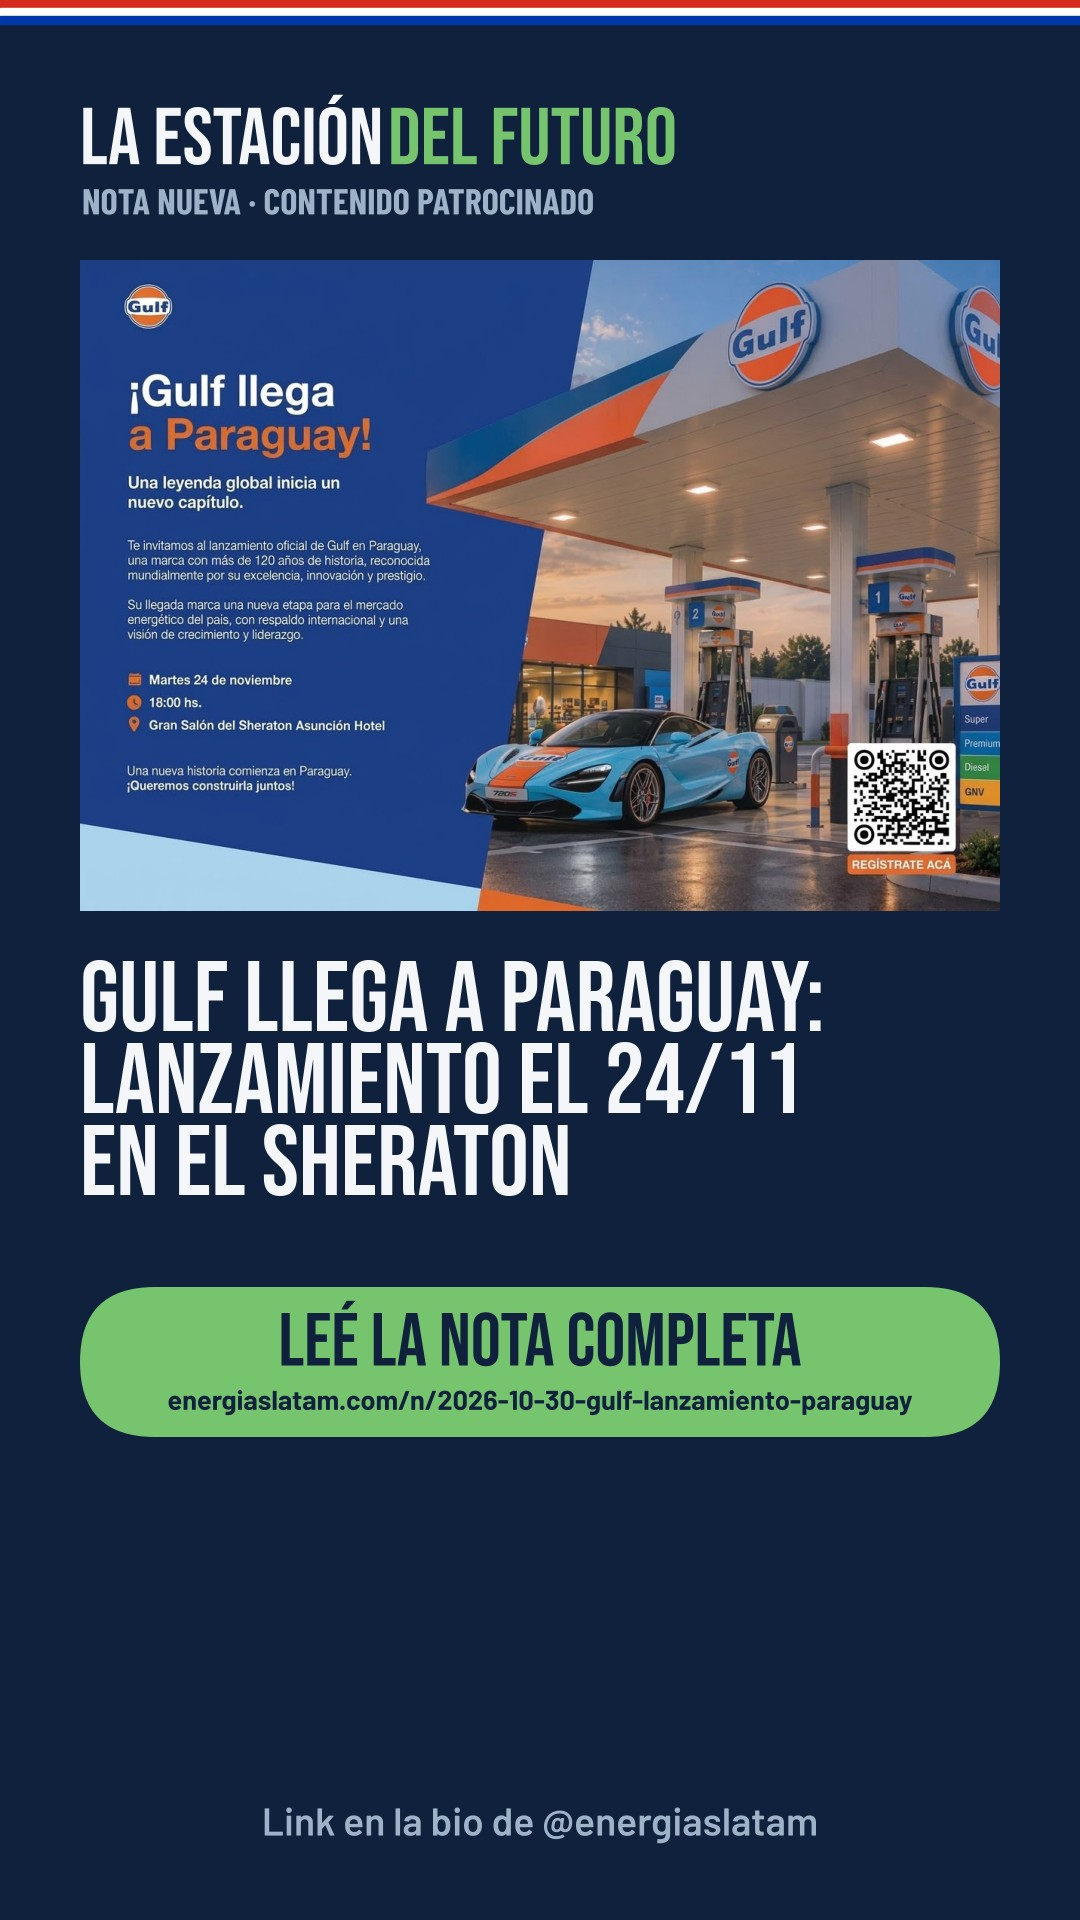
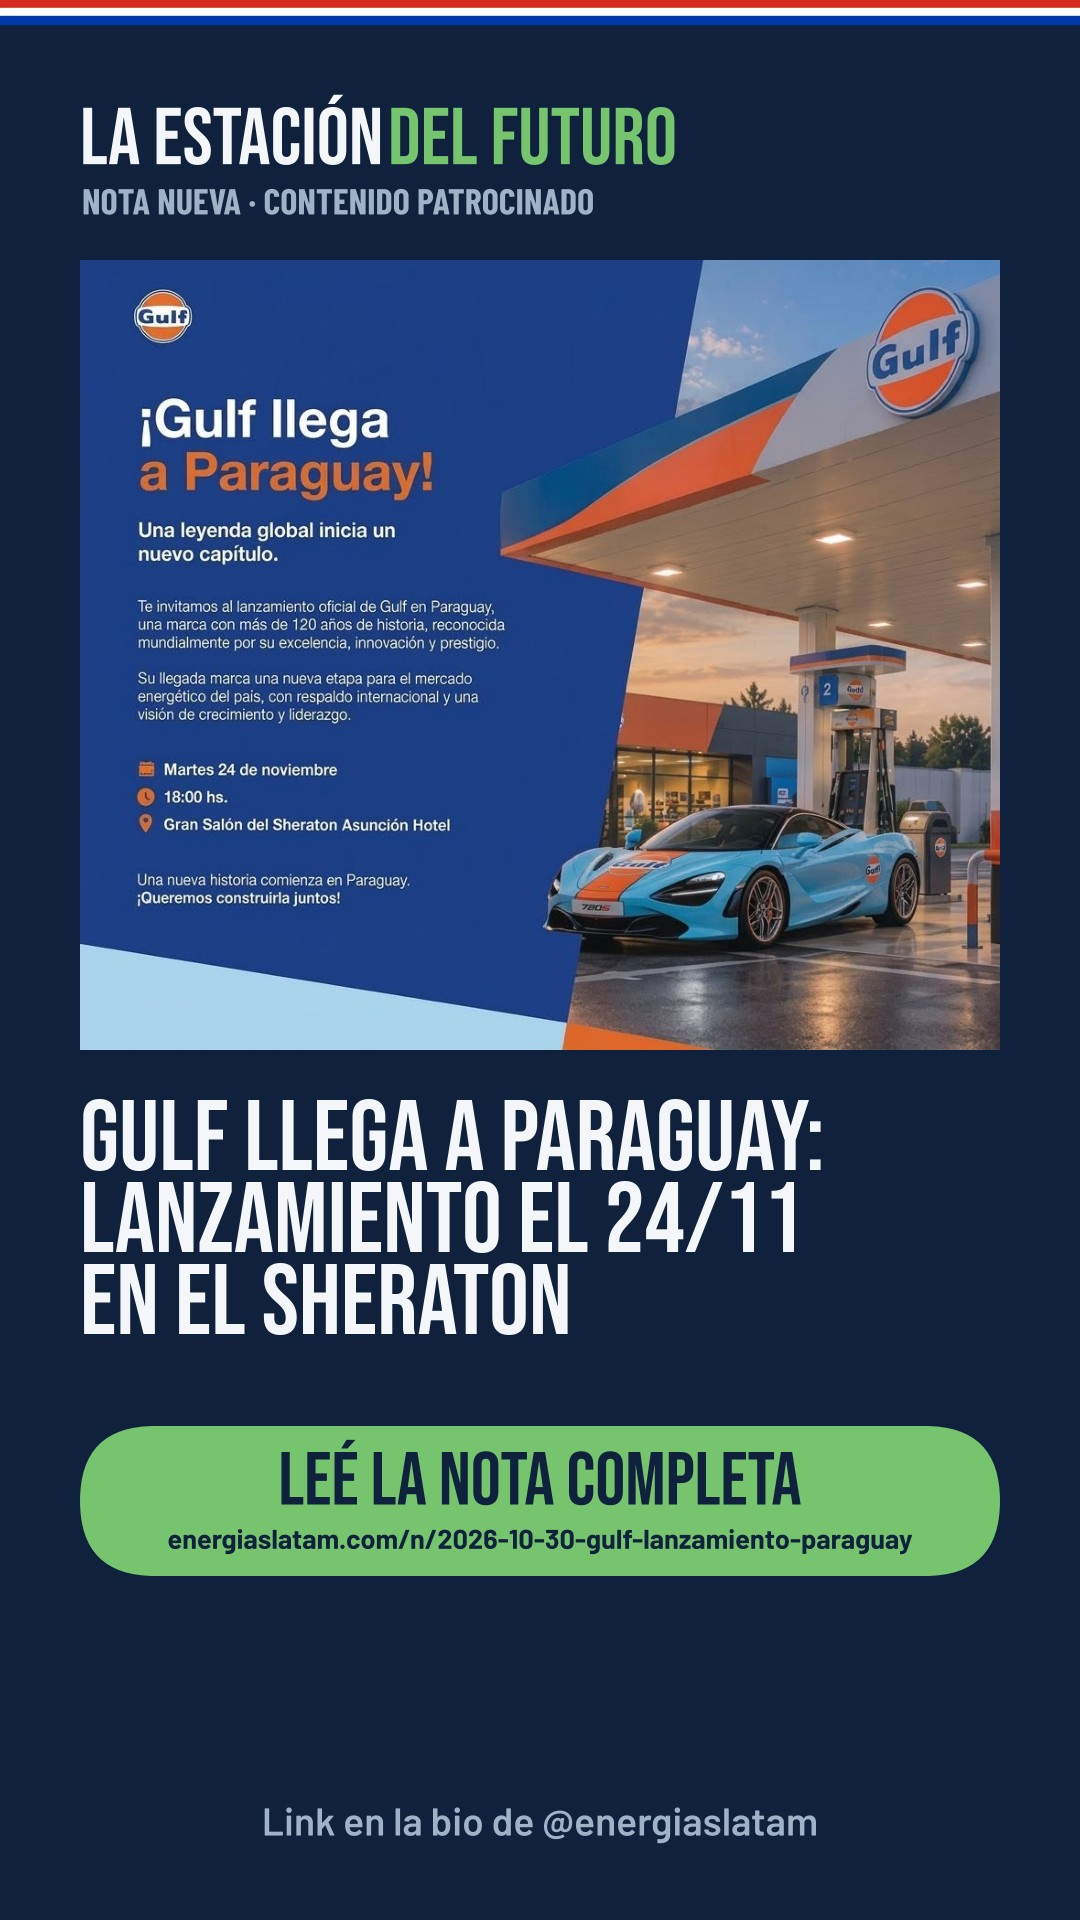
Gulf: sin registro (se quitan botones, QR e inscripción); se mantiene el anuncio del lanzamiento
Claude-Session: https://claude.ai/code/session_01HHGRFrapr8AXyd2C4Baz1m

diff --git a/notas/2026-10-30-gulf-lanzamiento-paraguay.html b/notas/2026-10-30-gulf-lanzamiento-paraguay.html
@@ -1,12 +1,10 @@
 <p style="background:#FFF6E5;border-left:5px solid #E08A00;padding:10px 14px;font-size:14.5px;margin:0 0 18px"><b>CONTENIDO PATROCINADO</b> · Esta nota es un contenido pago de Gulf Paraguay. Se publica identificado como tal y separado de la línea editorial de La Estación del Futuro.</p>
-<p>Gulf, una de las marcas de combustibles más reconocidas del mundo, hace su lanzamiento oficial en Paraguay para el rubro de las estaciones de servicio. La presentación será el <b>martes 24 de noviembre a las 18:00</b> en el Gran Salón del Sheraton Asunción Hotel, y la organización invita a operadores, propietarios de estaciones y actores del sector a participar.</p>
-<div class="datos"><div><b>24/11</b><span>martes, a las 18:00</span></div><div><b>Sheraton</b><span>Gran Salón del Sheraton Asunción Hotel</span></div><div><b>2 personas</b><span>cada inscripto puede asistir con un acompañante</span></div></div>
-<p style="text-align:center;margin:26px 0"><a href="https://energiaslatam.com/ir.php?d=gulf&amp;o=nota" target="_blank" rel="noopener" style="display:inline-block;background:#3A963E;color:#fff;font-weight:700;font-size:18px;padding:15px 30px;border-radius:10px;text-decoration:none">Registrate para el lanzamiento →</a></p>
+<p>Gulf, una de las marcas de combustibles más reconocidas del mundo, hace su lanzamiento oficial en Paraguay para el rubro de las estaciones de servicio. La presentación será el <b>martes 24 de noviembre a las 18:00</b> en el Gran Salón del Sheraton Asunción Hotel, con la presencia de operadores, propietarios de estaciones y actores del sector.</p>
+<div class="datos"><div><b>24/11</b><span>martes, a las 18:00</span></div><div><b>Sheraton</b><span>Gran Salón del Sheraton Asunción Hotel</span></div><div><b>Paraguay</b><span>nuevo mercado de la marca, junto a Uruguay y Bolivia</span></div></div>
 <h2>Una marca con más de 120 años</h2>
 <p>Gulf nació a comienzos del siglo XX en los Estados Unidos y hoy pertenece al grupo Hinduja. En la región ya opera en Argentina, Chile y Perú. En diciembre de 2025, Gulf Oil International anunció contratos para iniciar operaciones en Paraguay, Uruguay y Bolivia junto al grupo ANJOR, dedicado al transporte, la distribución y la venta de combustibles, con la meta de superar las 1.000 estaciones de servicio en la región hacia 2030.</p>
 <p>El lanzamiento del 24 de noviembre es el primer paso público de la marca en el mercado paraguayo. Según la invitación, su llegada marca “una nueva etapa para el mercado energético del país”.</p>
-<figure><img src="img/2026-10-30-gulf-lanzamiento-paraguay-1.jpg" alt="Invitación al lanzamiento oficial de Gulf en Paraguay, el martes 24 de noviembre en el Sheraton Asunción"><figcaption>La invitación oficial al lanzamiento. Imagen: Gulf Paraguay.</figcaption></figure>
-<p style="text-align:center;margin:26px 0"><a href="https://energiaslatam.com/ir.php?d=gulf&amp;o=nota_abajo" target="_blank" rel="noopener" style="display:inline-block;background:#3A963E;color:#fff;font-weight:700;font-size:18px;padding:15px 30px;border-radius:10px;text-decoration:none">Registrate para el lanzamiento →</a></p>
+<figure><img src="img/2026-10-30-gulf-lanzamiento-paraguay-1.jpg" alt="Lanzamiento oficial de Gulf en Paraguay, el martes 24 de noviembre en el Sheraton Asunción"><figcaption>El lanzamiento oficial de Gulf en Paraguay. Imagen: Gulf Paraguay.</figcaption></figure>
 <h2>Qué significa para la estación de servicio</h2>
-<p>La llegada de un nuevo emblema internacional suma una opción para los operadores que evalúan cambiar de bandera o abrir una estación, y más competencia en un mercado donde hoy conviven Petropar y los emblemas privados. Para el dueño de una estación, el lanzamiento es una buena oportunidad para conocer de primera mano el modelo de negocio, las condiciones para operar con la marca y los planes de expansión en el país.</p>
+<p>La llegada de un nuevo emblema internacional suma una opción para los operadores que evalúan cambiar de bandera o abrir una estación, y más competencia en un mercado donde hoy conviven Petropar y los emblemas privados. Para el dueño de una estación, el lanzamiento marcará el inicio de una nueva opción en el mercado, con un modelo de negocio, condiciones para operar con la marca y planes de expansión que se darán a conocer en el país.</p>
 <p><i>Contenido patrocinado por Gulf Paraguay.</i></p>
